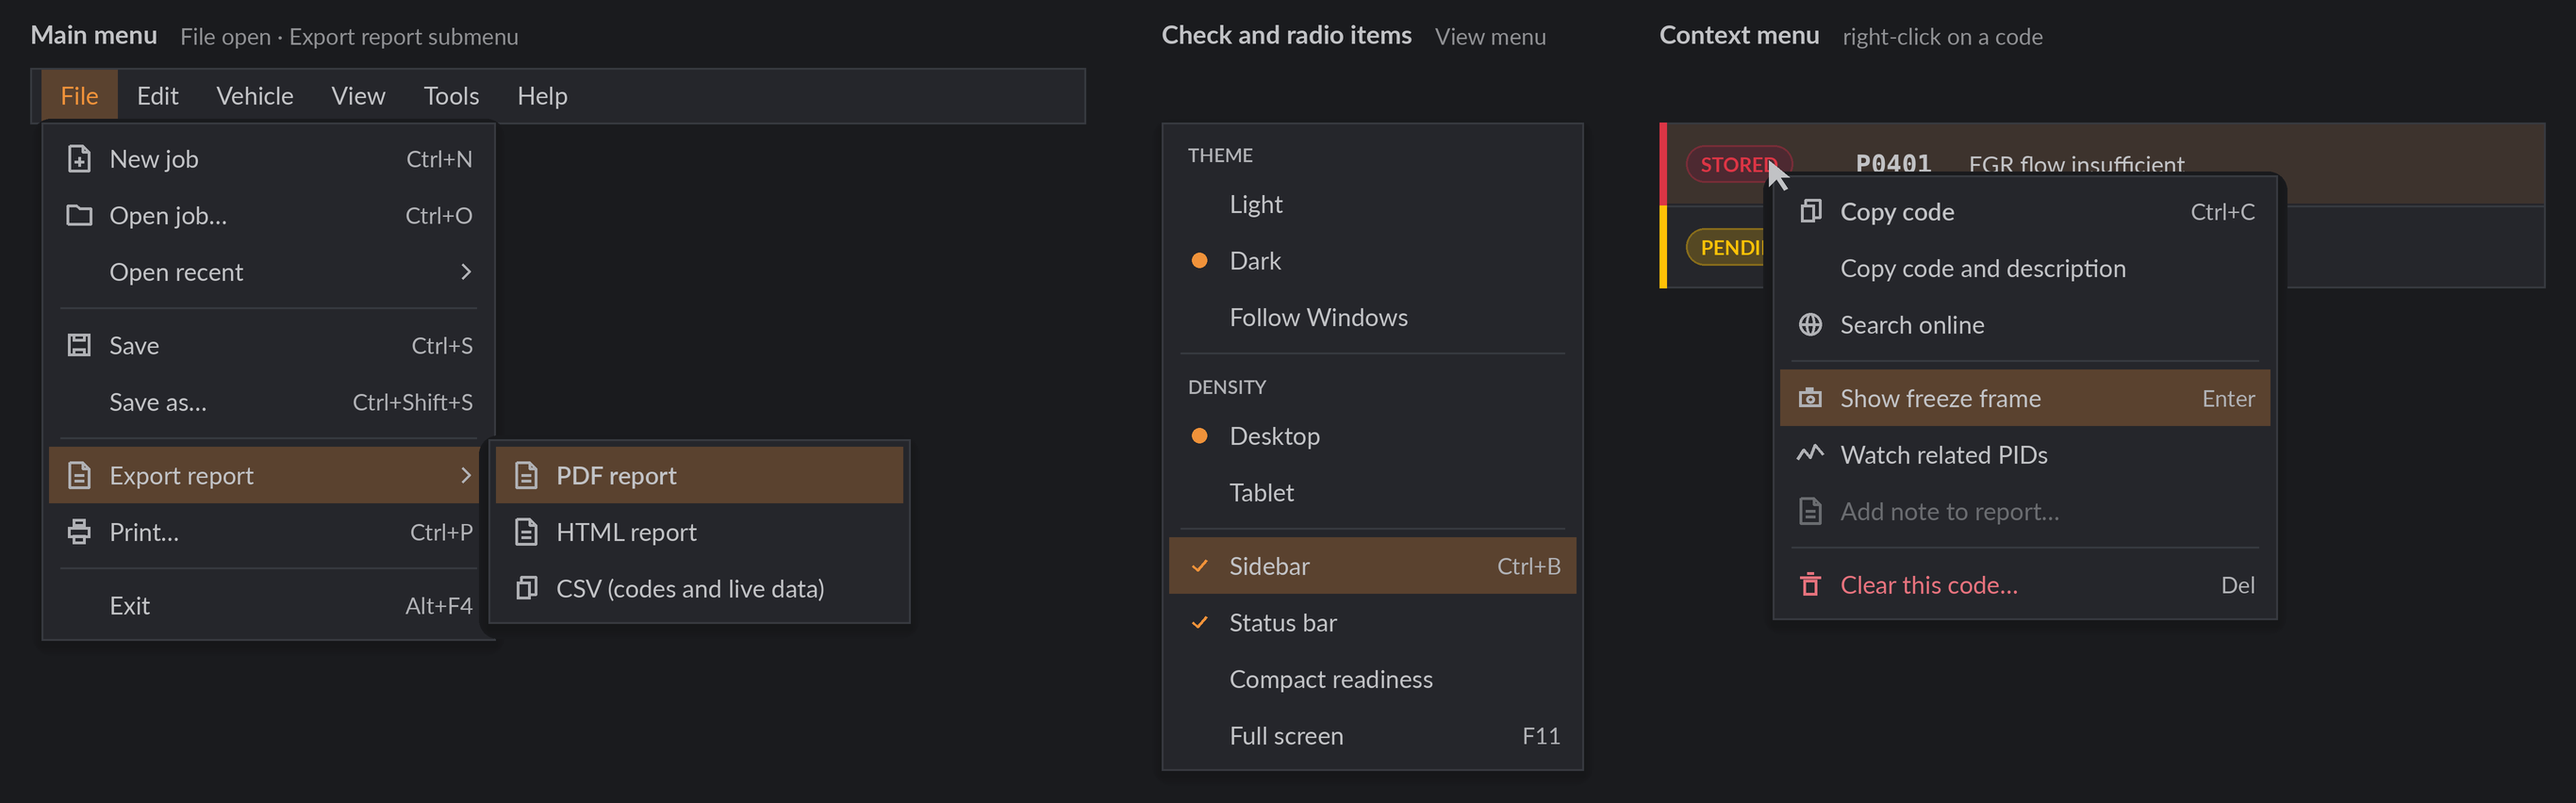
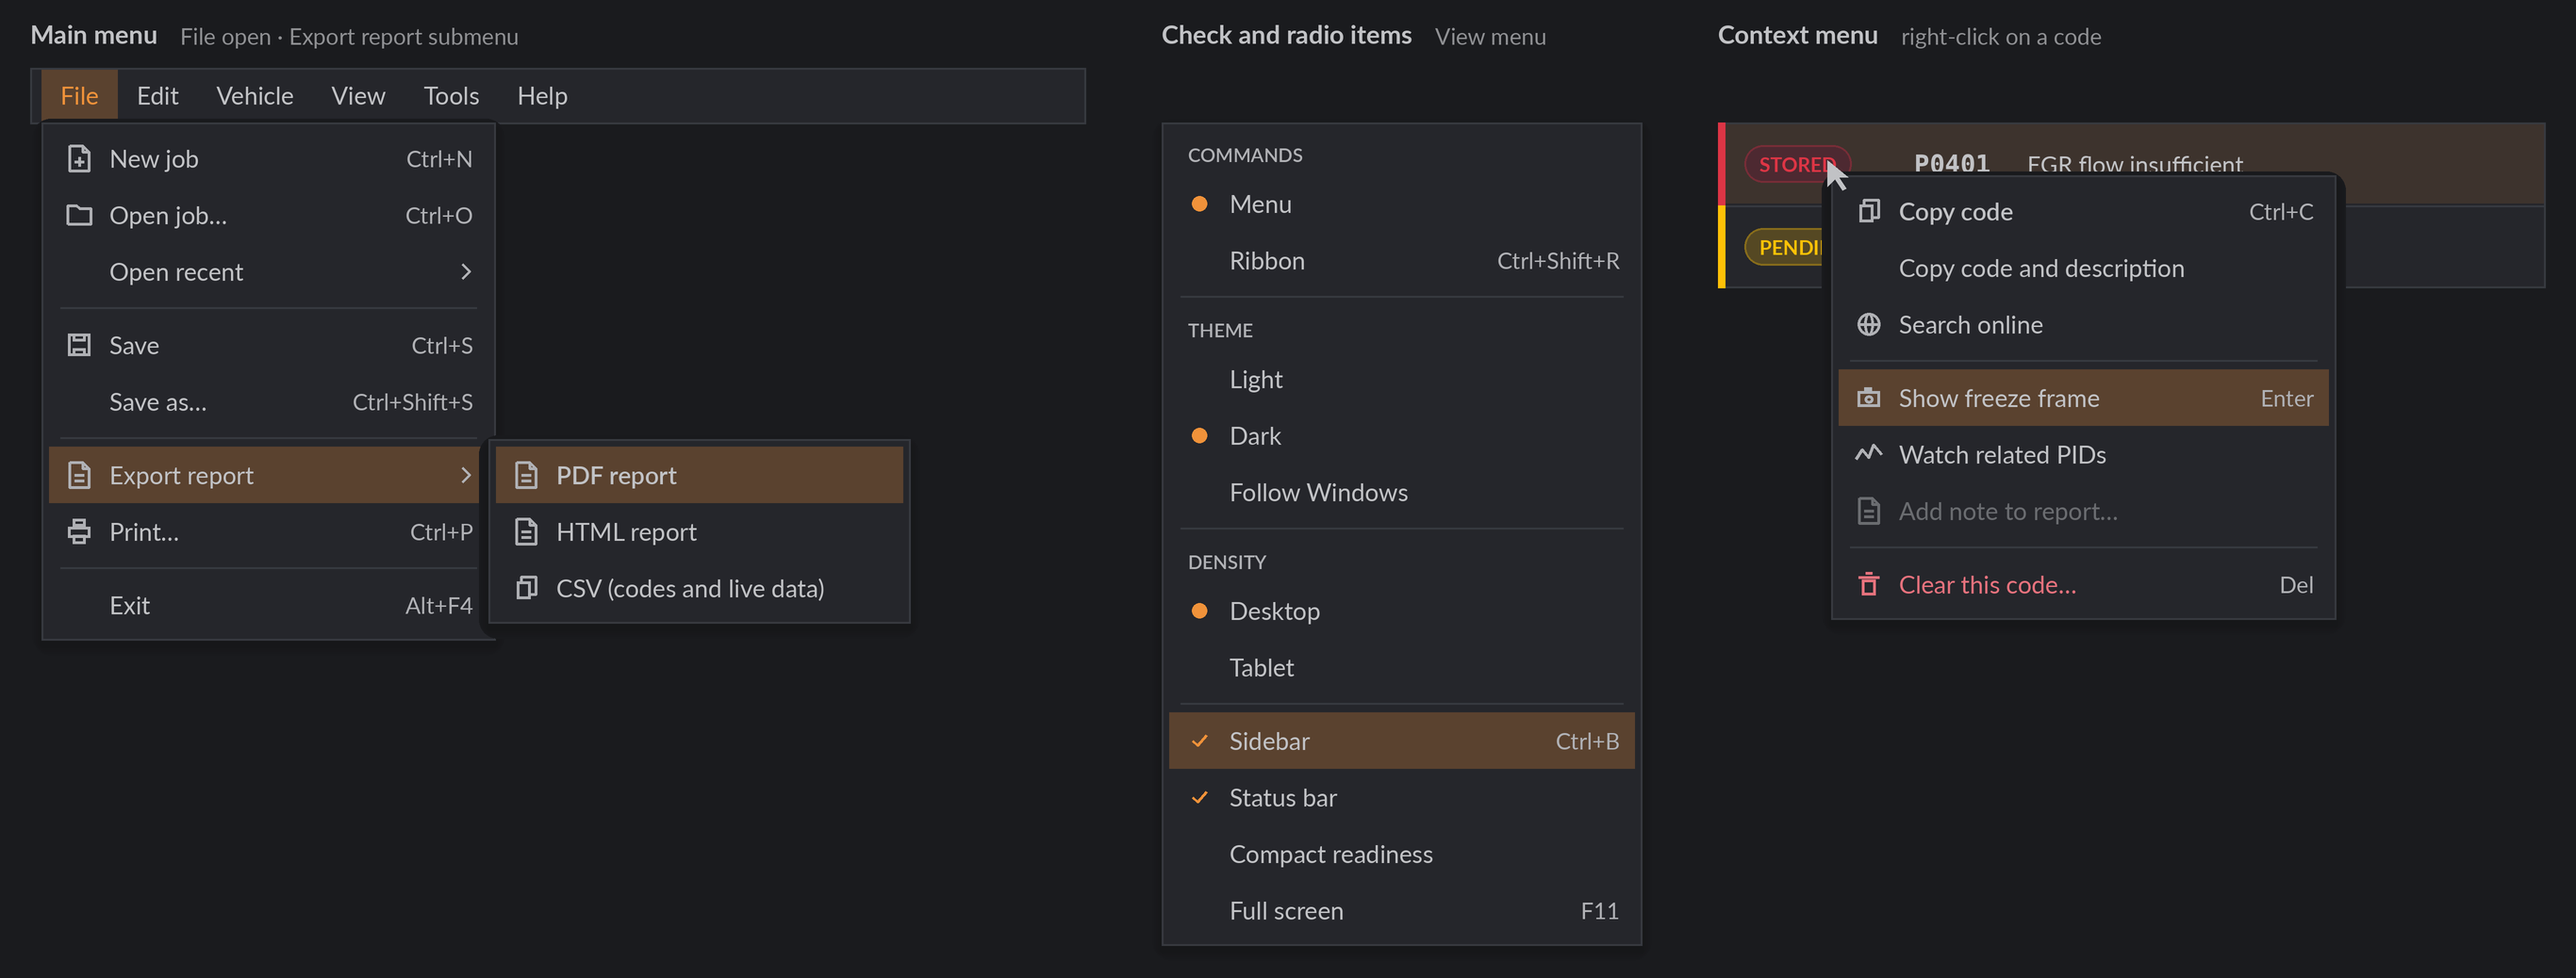
Record chrome decisions; add backstage and contextual-tab mockups; add chrome density metrics

diff --git a/tools/ui_mockups.py b/tools/ui_mockups.py
@@ -2055,6 +2055,10 @@ EXPORT_MENU = [
 ]
 
 VIEW_MENU = [
+    ('header', 'Commands'),
+    ('item', None, 'Menu', '', ('radio-on',)),
+    ('item', None, 'Ribbon', 'Ctrl+Shift+R', ()),
+    ('sep',),
     ('header', 'Theme'),
     ('item', None, 'Light', '', ()),
     ('item', None, 'Dark', '', ('radio-on',)),
@@ -2490,6 +2494,275 @@ def draw_ribbon(c):
     return yy - 34
 
 
+BACKSTAGE_ITEMS = [
+    ('back', None), ('item', ('vehicle', 'Job info')),
+    ('item', ('new', 'New job')), ('item', ('open', 'Open job')),
+    ('item', ('save', 'Save as')), ('sep', None),
+    ('item', ('pdf', 'Report')), ('item', ('print', 'Print')),
+    ('item', ('copy', 'Export')), ('sep', None),
+    ('item', ('gear', 'Settings')), ('item', ('info', 'About')),
+]
+
+REPORT_SECTIONS = [
+    ('Vehicle and customer', 'checked'), ('Trouble codes', 'checked'),
+    ('Freeze frames', 'checked'), ('Readiness', 'checked'),
+    ('Live data snapshot', 'unchecked'), ('Technician notes', 'checked'),
+]
+
+PAPER = (255, 255, 255)
+PAPER_INK = (26, 26, 26)
+PAPER_MUTED = (106, 99, 92)
+PAPER_RULE = (226, 226, 230)
+PAPER_WARN = (133, 100, 4)
+
+
+def backstage_nav(c, x, y, w, h, selected='Report'):
+    """Left column of TOBDBackstage: back button and page items."""
+    p, dn = c.p, c.dn
+    c.rect(x, y, w, h, fill=p.Accent)
+    ink = p.on_accent
+    sel_fill = mix(p.on_accent, p.Accent, 0.16)
+    hov_fill = mix(p.on_accent, p.Accent, 0.08)
+    iy = y + 12
+    rh = dn['nav']
+    for kind, data in BACKSTAGE_ITEMS:
+        if kind == 'back':
+            cy = iy + rh / 2
+            c.ellipse(x + 16, cy - 15, 30, 30, outline=ink, width=1.5)
+            c.line([(x + 37, cy), (x + 25, cy)], ink, 1.6)
+            c.line([(x + 30, cy - 5), (x + 25, cy), (x + 30, cy + 5)], ink,
+                   1.6)
+            iy += rh + 14
+        elif kind == 'sep':
+            c.hline(x + 16, iy + 6, w - 32, mix(ink, p.Accent, 0.3))
+            iy += 13
+        else:
+            g, text = data
+            if text == selected:
+                c.rect(x, iy, w, rh, fill=sel_fill)
+                c.rect(x, iy + 6, 3, rh - 12, fill=ink)
+            elif text == 'Print':
+                c.rect(x, iy, w, rh, fill=hov_fill)
+            glyph(c, g, x + 30, iy + rh / 2, ink, 0.95, bg=p.Accent)
+            c.text(x + 52, iy + rh / 2, text, 13.5, ink,
+                   'semibold' if text == selected else 'regular')
+            iy += rh + 2
+
+
+def report_page(c, x, y, w, h):
+    """A4 page preview of the sample job. Paper stays white in both
+    themes: it is what gets printed."""
+    p = c.p
+    ink, muted, rule = PAPER_INK, PAPER_MUTED, PAPER_RULE
+    shadow(c, x, y, w, h, 10, c.page_bg)
+    c.rect(x, y, w, h, fill=PAPER)
+    k = w / 420
+    L, R = x + 28 * k, x + w - 28 * k
+    c.rect(L, y + 26 * k, 34 * k, 34 * k, fill=p.Accent)
+    c.text(L + 17 * k, y + 43 * k, 'GP', 11 * k, ink, 'bold', anchor='mm')
+    c.text(L + 44 * k, y + 36 * k, 'Garage Peeters', 13 * k, ink, 'bold')
+    c.text(L + 44 * k, y + 52 * k, 'Diagnostic report  ·  job 2026-0142',
+           9.5 * k, muted)
+    c.text(R, y + 36 * k, '10 Oct 2026', 9.5 * k, muted, anchor='rm')
+    c.text(R, y + 52 * k, 'Page 1 of 3', 9.5 * k, muted, anchor='rm')
+    c.rect(L, y + 72 * k, R - L, 2 * k, fill=p.Accent)
+    yy = y + 92 * k
+    c.text(L, yy, 'VEHICLE', 8.5 * k, muted, 'semibold')
+    yy += 16 * k
+    for a, b in (('Volkswagen Golf VII 1.6 TDI', 'VIN WVWZZZAUZGW123456'),
+                 ('2016 · Diesel · CLHA · 81 kW', 'Odometer 148 312 km')):
+        c.text(L, yy, a, 10 * k, ink, 'semibold' if 'Golf' in a else
+               'regular')
+        c.text(R, yy, b, 9.5 * k, muted, anchor='rm')
+        yy += 15 * k
+    yy += 10 * k
+    c.text(L, yy, 'TROUBLE CODES', 8.5 * k, muted, 'semibold')
+    yy += 8 * k
+    for status, code, desc in (
+            ('STORED', 'P0401', 'Exhaust gas recirculation flow insufficient'),
+            ('STORED', 'P2002', 'DPF efficiency below threshold (bank 1)'),
+            ('PENDING', 'P0299', 'Turbocharger underboost'),
+            ('STORED', 'U0121', 'Lost communication with ABS module'),
+            ('PERMANENT', 'P20EE', 'SCR NOx catalyst efficiency below '
+             'threshold')):
+        colr = {'STORED': (220, 53, 69), 'PENDING': PAPER_WARN,
+                'PERMANENT': (180, 83, 10)}[status]
+        c.rect(L, yy + 4 * k, 3 * k, 16 * k, fill=colr)
+        c.text(L + 9 * k, yy + 12 * k, status, 7.5 * k, colr, 'bold')
+        c.text(L + 66 * k, yy + 12 * k, code, 9.5 * k, ink, 'monobold')
+        c.text(L + 112 * k, yy + 12 * k, desc, 9.5 * k, ink,
+               max_w=R - L - 112 * k)
+        yy += 22 * k
+        c.hline(L, yy + 1 * k, R - L, rule)
+    yy += 18 * k
+    c.text(L, yy, 'READINESS', 8.5 * k, muted, 'semibold')
+    yy += 8 * k
+    c.rect(L, yy, R - L, 34 * k, fill=(255, 245, 214))
+    c.rect(L, yy, 3 * k, 34 * k, fill=PAPER_WARN)
+    c.text(L + 12 * k, yy + 11 * k, 'Not ready for the emissions test',
+           10 * k, ink, 'bold')
+    c.text(L + 12 * k, yy + 25 * k, '2 of 8 supported monitors incomplete',
+           9 * k, muted)
+    yy += 50 * k
+    c.text(L, yy, 'FREEZE FRAME  ·  P0401', 8.5 * k, muted, 'semibold')
+    yy += 10 * k
+    half = (R - L) / 2
+    for i, (a, b) in enumerate((('Engine speed', '2 140 rpm'),
+                                ('Coolant temperature', '84 °C'),
+                                ('Intake MAP', '142 kPa'),
+                                ('Commanded EGR', '38.0 %'))):
+        cx = L if i % 2 == 0 else L + half + 8 * k
+        cy = yy + (i // 2) * 17 * k
+        c.text(cx, cy + 6 * k, a, 9 * k, muted)
+        c.text(cx + half - 8 * k, cy + 6 * k, b, 9 * k, ink, 'semibold',
+               anchor='rm')
+    yy += 44 * k
+    c.text(L, yy, 'TECHNICIAN NOTES', 8.5 * k, muted, 'semibold')
+    for i in range(3):
+        c.hline(L, yy + (16 + i * 14) * k, R - L - (60 * k if i == 2 else 0),
+                rule)
+    c.hline(L, y + h - 34 * k, R - L, rule)
+    c.text(L, y + h - 22 * k, 'Garage Peeters · Industrieweg 12, Hasselt '
+           '· +32 11 00 00 00', 8 * k, muted)
+
+
+def draw_backstage(c):
+    """TOBDBackstage: the ribbon's File button opens a full-window page.
+    Shown on the Report page with the report preview."""
+    p, dn = c.p, c.dn
+    x, y, w = 24, 24, c.w - 48
+    h = c.h - 48
+    window_frame(c, x, y, w, h)
+    tb, _ = title_bar(c, x + 1, y + 1, w - 2, quick=('save', 'undo', 'redo'),
+                      center=True)
+    top = y + 1 + tb
+    bh = h - tb - 2
+    nav_w = 216
+    backstage_nav(c, x + 1, top, nav_w, bh)
+    px = x + 1 + nav_w
+    pw = w - 2 - nav_w
+    c.rect(px, top, pw, bh, fill=p.Background)
+    L = px + 32
+    c.text(L, top + 40, 'Report', 26, p.ForegroundText, 'bold')
+    c.text(L, top + 72, 'Golf VII 1.6 TDI  ·  job 2026-0142  ·  '
+           'customer L. Janssens', 12.5, p.GaugeLabel)
+    # Settings column.
+    sw = 360
+    sy = top + 100
+    sh = bh - 132
+    card(c, L, sy, sw, sh)
+    iy = sy + 22
+    ew = sw - 36
+    c.caps(L + 18, iy, 'Template')
+    iy += 16
+    eh = dn['edit']
+    c.rect(L + 18, iy, ew, eh, fill=p.GaugeFace, outline=p.NeutralLight)
+    c.text(L + 28, iy + eh / 2, 'Garage report (A4)', 12.5,
+           p.ForegroundText)
+    chevron(c, L + 18 + ew - 14, iy + eh / 2, p.Subtle, down=True)
+    iy += eh + 24
+    c.caps(L + 18, iy, 'Sections')
+    iy += 20
+    for text, state in REPORT_SECTIONS:
+        checkbox(c, L + 18, iy, state, text)
+        iy += dn['check'] + 14
+    iy += 6
+    c.caps(L + 18, iy, 'Language')
+    iy += 14
+    segmented(c, L + 18 + ew, iy, ['English', 'Nederlands', 'Deutsch',
+                                   'Français'], 1)
+    iy += dn['seg'] + 26
+    switch(c, L + 18, iy, True, 'Garage logo and footer')
+    iy += dn['switch'] + 18
+    switch(c, L + 18, iy, False, 'Live values next to the freeze frame')
+    by = sy + sh - 18 - dn['button']
+    c.hline(L + 1, by - 16, sw - 2, p.NeutralLight)
+    bw = button(c, L + 18, by, 'Export PDF', 'primary', icon=icon_read)
+    bw2 = button(c, L + 18 + bw + 8, by, 'Print…', 'secondary')
+    button(c, L + 18 + bw + 8 + bw2 + 8, by, 'E-mail', 'ghost')
+
+    # Preview.
+    vx = L + sw + 24
+    vw = px + pw - 32 - vx
+    c.page_bg = mix(p.NeutralLight, p.Background, 0.5)
+    c.rect(vx, sy, vw, sh, fill=c.page_bg, outline=p.NeutralLight)
+    ty = sy + 10
+    c.text(vx + 16, ty + 14, 'Preview', 13, p.ForegroundText, 'semibold')
+    rx = vx + vw - 12
+    for t in ('Fit width', '100 %'):
+        tw = c.tw(t, 12) + 20
+        c.rect(rx - tw, ty, tw, 28, fill=p.GaugeFace, outline=p.NeutralLight)
+        c.text(rx - tw / 2, ty + 14, t, 12, p.ForegroundText, anchor='mm')
+        rx -= tw + 6
+    rx -= 6
+    c.rect(rx - 28, ty, 28, 28, fill=p.GaugeFace, outline=p.NeutralLight)
+    chevron(c, rx - 14, ty + 14, p.Subtle)
+    rx -= 34
+    c.text(rx, ty + 14, 'Page 1 of 3', 12, p.GaugeLabel, anchor='rm')
+    rx -= c.tw('Page 1 of 3', 12) + 8
+    c.rect(rx - 28, ty, 28, 28, fill=p.GaugeFace, outline=p.NeutralLight)
+    c.line([(rx - 12, ty + 10), (rx - 16, ty + 14), (rx - 12, ty + 18)],
+           mix(p.Subtle, p.GaugeFace, 0.5), 1.6)
+    ph = sh - 72
+    pw_ = ph / 1.414
+    if pw_ > vw - 60:
+        pw_ = vw - 60
+        ph = pw_ * 1.414
+    report_page(c, vx + (vw - pw_) / 2, sy + 52, pw_, ph)
+
+
+def ribbon_tabs_ctx(c, x, y, w, ctx):
+    """Tab row with a set of contextual tabs; the first one is selected."""
+    p, dn = c.p, c.dn
+    h = dn['tab']
+    c.rect(x, y, w, h, fill=p.GaugeFace)
+    fw = c.tw('File', 13, 'semibold') + 28
+    c.rect(x + 6, y + 5, fw, h - 10, fill=p.Accent)
+    c.text(x + 6 + fw / 2, y + h / 2, 'File', 13, p.on_accent, 'semibold',
+           anchor='mm')
+    tx = x + 6 + fw + 6
+    for t in RIBBON_TABS:
+        tw = c.tw(t, 13) + 28
+        c.text(tx + tw / 2, y + h / 2, t, 13, p.ForegroundText, anchor='mm')
+        tx += tw
+    tx += 8
+    for i, (t, colr) in enumerate(ctx):
+        tw = c.tw(t, 13) + 28
+        c.rect(tx, y, tw, h, fill=p.tint(colr, 0.14 if not p.dark else 0.2))
+        c.rect(tx, y, tw, 3, fill=colr)
+        c.text(tx + tw / 2, y + h / 2 + 1, t, 13, colr,
+               'semibold' if i == 0 else 'regular', anchor='mm')
+        if i == 0:
+            c.rect(tx + 10, y + h - 3, tw - 20, 3, fill=colr)
+        tx += tw + 2
+    c.hline(x, y + h - 1, w, p.NeutralLight)
+    return h
+
+
+def draw_ribbon_config(c):
+    """ContextualTabs collection: each set has its own caption, colour
+    and tabs, and is shown while its context is active."""
+    p = c.p
+    L = 16
+    w = c.w - 32
+    sheet_label(c, L, 18, 'ContextualTabs', 'a collection: caption, '
+                'colour (theme status colour or custom), tabs, Visible')
+    yy = 38
+    for label, tabs in (
+            ('Recording open  ·  Colour = ccSuccess',
+             [('Playback', p.Success)]),
+            ('Code selected while a report is open  ·  ccDanger and '
+             'ccAccent', [('Code', p.Danger), ('Report', p.accent_text)]),
+            ('Adapter firmware update  ·  ccWarning',
+             [('Firmware', p.Warning)])):
+        c.text(L, yy + 10, label, 12, p.GaugeLabel)
+        yy += 22
+        h = ribbon_tabs_ctx(c, L + 1, yy + 1, w - 2, tabs)
+        c.rect(L, yy, w, h + 2, outline=p.NeutralLight)
+        yy += h + 2 + 20
+    return yy - 20
+
+
 def tabs_underline(c, x, y, w):
     p, dn = c.p, c.dn
     h = dn['tab'] + 4
@@ -2810,11 +3083,13 @@ MOCKUPS = {
     'menus': (BOTH, 1366, None, draw_menus),
     'ribbon': (DESKTOP, 1366, None, draw_ribbon),
     'app-controls': (BOTH, 1100, None, draw_app_controls),
+    'backstage': (DESKTOP, 1366, 860, draw_backstage),
+    'ribbon-contextual': (DESKTOP, 1366, None, draw_ribbon_config),
 }
 
 
 # Window mockups are drawn on a desktop colour so the form border shows.
-ON_DESKTOP = ('form-chrome', 'ribbon')
+ON_DESKTOP = ('form-chrome', 'ribbon', 'backstage')
 
 
 def render(name, density, palette):

diff --git a/docs/mockups/README.md b/docs/mockups/README.md
@@ -299,7 +299,8 @@ button hovered, and tablet density.
 ### Menus (`TOBDMenuBar`, `TOBDPopupMenu`)
 
 - The main menu with a submenu.
-- Radio groups with headers and check items (theme, density, panels).
+- Radio groups with headers and check items: commands (menu or
+  ribbon), theme, density and panels.
 - A context menu on a code row, with a danger item for clearing one code.
 
 | Light | Dark |
@@ -328,21 +329,44 @@ toasts.
 | ![](app-controls-light.png) | ![](app-controls-dark.png) |
 | ![](app-controls-tablet-light.png) | ![](app-controls-tablet-dark.png) |
 
-### Open questions
+### Decisions
 
-1. Menu bar, ribbon or both? The proposal is to use the menu in the
-   title bar plus the sidebar and a tool bar for OBD Studio, and to make
-   the ribbon an optional style.
-2. Default menu placement: in the title bar (`mpTitleBar`) or below it
-   (`mpBelow`)?
-3. Should the form border be accent orange while the form is active, or
-   always neutral?
-4. Keep these extra caption buttons: theme, density, notifications,
-   help, and the connection chip?
-5. Should the ribbon's File button open a full-window page (settings,
-   recent jobs, export) or a plain menu?
-6. Is green the right colour for contextual tabs, such as *Playback*
-   while a recording is open?
+| Topic | Decision |
+|---|---|
+| Menu or ribbon | Both. The menu sits in the title bar by default. The ribbon is optional, and the user switches between them at run time: View › Commands, or `TOBDTitleBar.CommandStyle = (csMenu, csRibbon)`. |
+| Menu placement | In the title bar (`MenuPlacement = mpTitleBar`). |
+| Form border | Accent orange while the form is active, neutral when inactive. |
+| Extra caption buttons | A collection (`TOBDTitleBar.Buttons`), so buttons can be added and changed at design time and at run time. The theme, density, notifications and help buttons are the shipped example. |
+| Ribbon File button | Opens `TOBDBackstage`, a full-window page with its own navigation. Its first use is the report page with a live preview. |
+| Contextual tabs | A collection (`TOBDRibbon.ContextualTabs`): caption, colour, tabs and `Visible`. Green *Playback* is the first example. |
+
+### Backstage (`TOBDBackstage`) – needs approval
+
+The ribbon's File button opens a full-window page instead of a menu.
+The left column is an orange navigation strip with a back button; each
+item hosts a page (any `TWinControl`, usually a frame). The example
+shows the Report page:
+
+- report settings: template, sections, language, logo and footer;
+- the export, print and e-mail actions;
+- an A4 preview with page navigation and zoom.
+
+The paper stays white in both themes, because that is what is printed.
+
+| Light | Dark |
+|---|---|
+| ![](backstage-light.png) | ![](backstage-dark.png) |
+
+### Contextual tabs (`TOBDRibbon.ContextualTabs`)
+
+Each entry has a caption, a colour (`ccAccent`, `ccSuccess`,
+`ccWarning`, `ccDanger` from the theme, or `ccCustom` with a colour of
+its own), its tabs and `Visible`. The application shows an entry while
+its context is active, for example while a recording is open.
+
+| Light | Dark |
+|---|---|
+| ![](ribbon-contextual-light.png) | ![](ribbon-contextual-dark.png) |
 
 ### Technical notes
 
